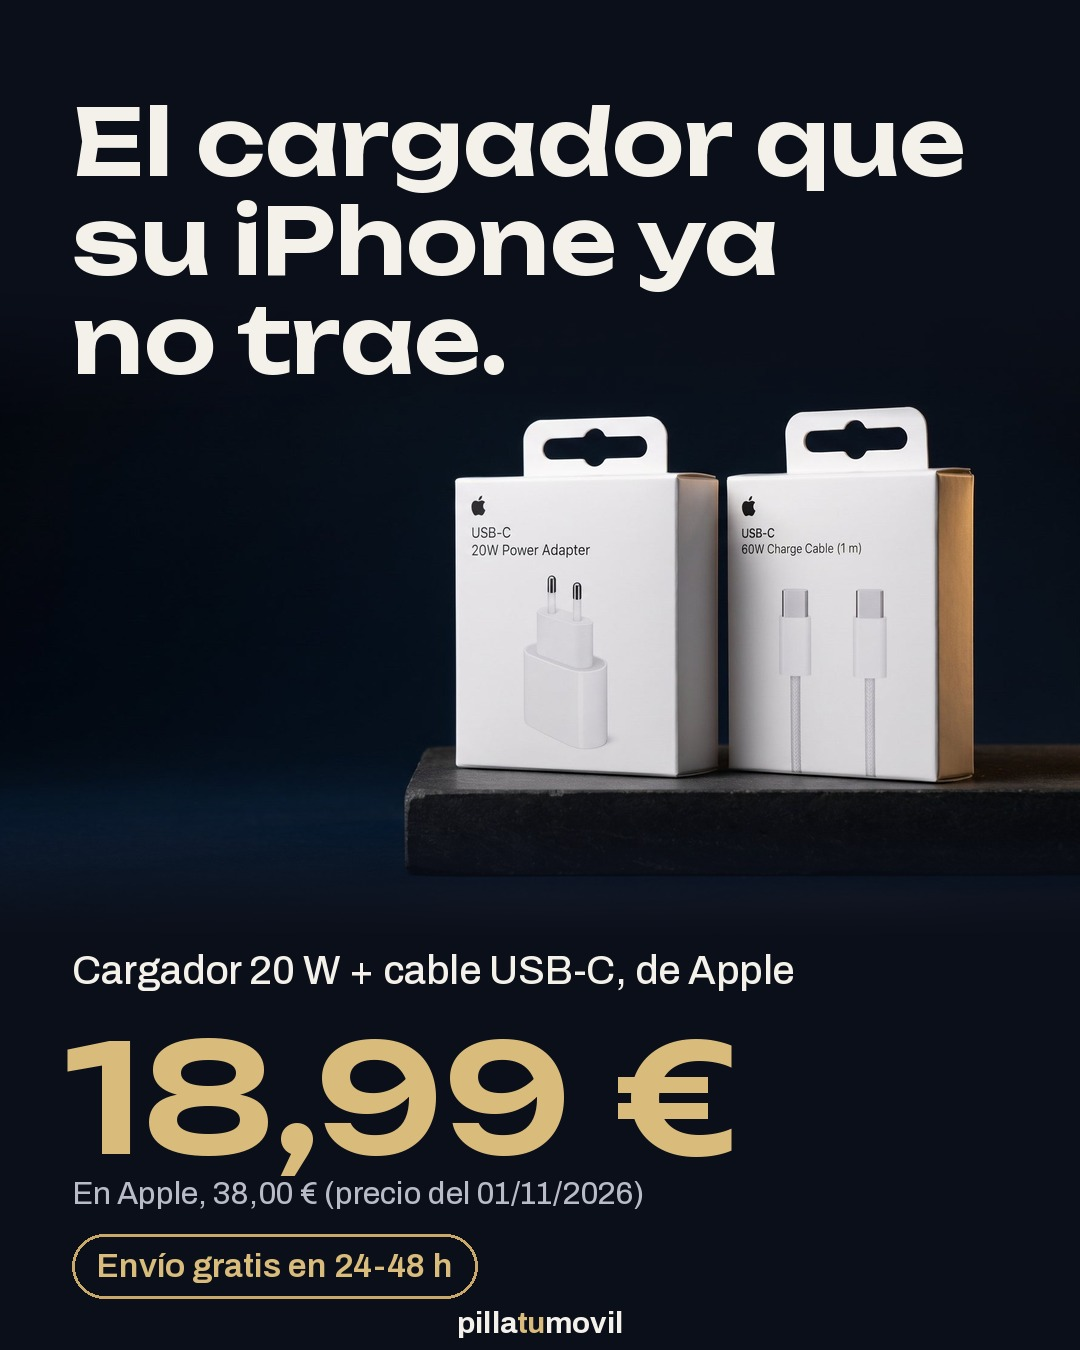
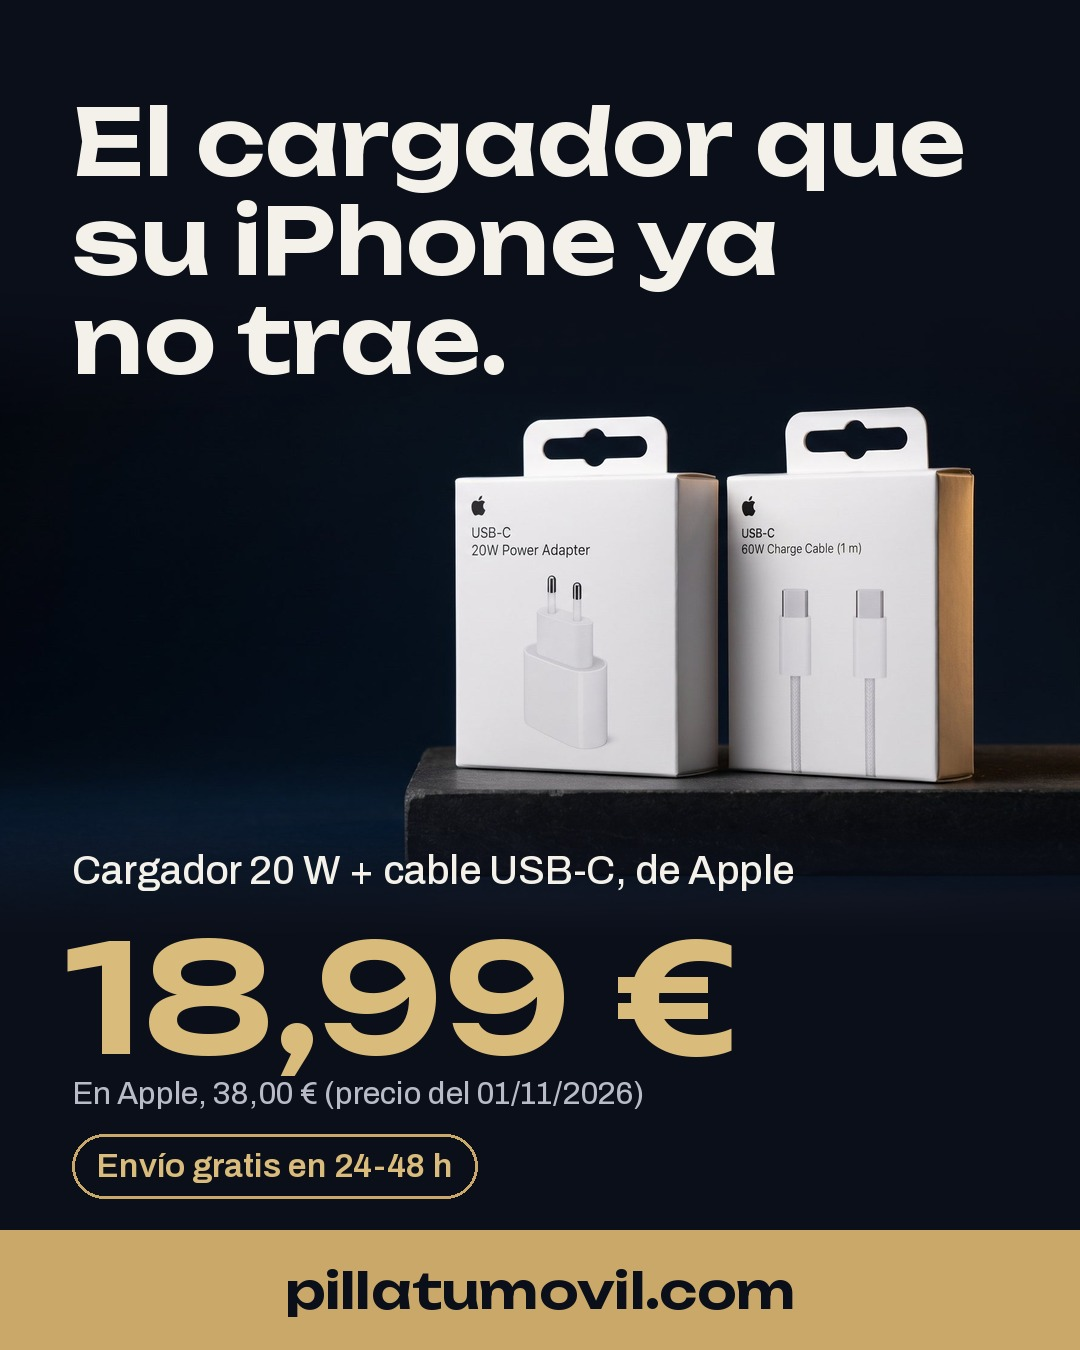
Anuncios v2: la web en grande abajo y la tienda enlaza a los packs
Claude-Session: https://claude.ai/code/session_01Nc9WKw6CJWQJZcFTdaUv41

Changed region(s): [[0.0, 0.6222, 1.0, 1.0]]

diff --git a/pillatumovil/tools/anuncio_meta.py b/pillatumovil/tools/anuncio_meta.py
@@ -50,6 +50,12 @@ def sello(d, x, y, txt, f):
     d.text((x+24, y+13), txt, font=f, fill=ORO_T)
     return y+h+30
 
+def barra(d, W, y, h):
+    d.rectangle([0, y, W, y + h], fill=ORO)
+    f = UNB(50); t = 'pillatumovil.com'
+    w = d.textlength(t, font=f)
+    d.text(((W - w) / 2, y + (h - f.size) / 2 - 6), t, font=f, fill=NOCHE)
+
 def logo(d, W, y, f):
     t1, t2, t3 = 'pilla', 'tu', 'movil'
     w = sum(d.textlength(t, font=f) for t in (t1, t2, t3)); x = (W-w)/2
@@ -66,13 +72,15 @@ def idea(nombre, W, H, safe_top, safe_bot):
     ft = UNB(92 if not story else 100)
     alto_tit = len(titulo)*int(ft.size*1.08)
     foto_y = safe_top + alto_tit + (10 if not story else 60)
-    foto_frac = 0.50 if not story else 0.46
+    foto_frac = 0.50 if not story else 0.30
     im = base(W, H, foto_frac, foto_y - int(H*foto_frac*0.18))
     d = ImageDraw.Draw(im)
     texto_lineas(d, M, safe_top, titulo, ft, MARFIL, int(ft.size*1.08))
     # bloque de precio, abajo
     fp = UNB(150 if not story else 170); fs = ARC(40, 500); fsm = ARC(31, 450); fb = ARC(34, 600)
-    y = H - safe_bot - (fp.size + 36 + 40 + 30 + 76)
+    BH = 120
+    bar_y = H - BH if not story else H - safe_bot - BH
+    y = bar_y - 50 - (fp.size + 36 + 40 + 30 + 76)
     d.text((M, y), 'Cargador 20 W + cable USB‑C, de Apple', font=fs, fill=MARFIL)
     y += 56
     d.text((M-6, y), '18,99 €', font=fp, fill=ORO_T)
@@ -80,8 +88,7 @@ def idea(nombre, W, H, safe_top, safe_bot):
     d.text((M, y), 'En Apple, 38,00 € (precio del 01/11/2026)', font=fsm, fill=MARFIL2)
     y += 58
     sello(d, M, y, 'Envío gratis en 24-48 h', fb)
-    if not story:
-        logo(d, W, H-safe_bot+26, ARC(30, 700)) if safe_bot > 60 else None
+    barra(d, W, bar_y, BH)
     return im
 
 os.makedirs(out, exist_ok=True)

diff --git a/pillatumovil/tools/anuncio_tienda.py b/pillatumovil/tools/anuncio_tienda.py
@@ -34,7 +34,7 @@ def tesela(d, x, y, w, h, modelos, cable):
 def anuncio(W, H, top, bot):
     story = H > W * 1.5
     lienzo = Image.new('RGB', (W, H), NOCHE)
-    fh = int(H * (0.56 if not story else 0.46))
+    fh = int(H * (0.52 if not story else 0.46))
     lienzo.paste(foto_fundida(W, fh), (0, 0 if not story else top - 60))
     d = ImageDraw.Draw(lienzo); M = 64
     ft = F('Unbounded.ttf', 74 if not story else 72, 600)
@@ -49,9 +49,10 @@ def anuncio(W, H, top, bot):
     d.text((M, y), 'Adaptador de 20 W + cable, originales de Apple.', font=F('Archivo.ttf', 34, 500), fill=MARFIL)
     y += 54
     d.text((M, y), 'Envío gratis en 24-48 h · 14 días para devolverlo', font=F('Archivo.ttf', 30, 500), fill=ORO_T)
-    if not story:
-        f = F('Archivo.ttf', 28, 700); t = 'pillatumovil.com'
-        d.text((W - M - d.textlength(t, font=f), H - bot - 4), t, font=f, fill=MARFIL2)
+    BH = 120; by = H - BH if not story else H - bot - BH
+    d.rectangle([0, by, W, by + BH], fill=ORO)
+    f = F('Unbounded.ttf', 50, 600); t = 'pillatumovil.com'
+    d.text(((W - d.textlength(t, font=f)) / 2, by + (BH - 50) / 2 - 6), t, font=f, fill=NOCHE)
     return lienzo
 
 os.makedirs(out, exist_ok=True)

diff --git a/pillatumovil/anuncios/2026-11/LEEME.md b/pillatumovil/anuncios/2026-11/LEEME.md
@@ -20,3 +20,12 @@ Generadas con `tools/anuncio_meta.py`.
 - Enlace: portada, directo al selector «¿Qué iPhone tiene?» (`#su-iphone`), utm_campaign=tienda-2026-11.
 - **Publicado**: anuncio 120250354025830622, creative 1113019388368373 (con la cuenta de Instagram 17841437289404273).
 - Borrador sin publicar 120250354022660622: le faltaba la cuenta de Instagram. Se puede descartar.
+
+## v2 (02/11/2026): la web en grande abajo y enlace a los packs
+
+Petición del dueño: «poner el link abajo de la web directo, en grande» y «que la lleve directamente al producto de los packs».
+
+- Las tres imágenes llevan abajo una franja dorada con «pillatumovil.com» en grande (Unbounded, noche sobre oro).
+- Tienda: el enlace va a `/collections/packs` (los dos packs). A y B van a la ficha del pack USB-C.
+- Publicados: tienda 120250354076460622 (creative 1752210195854821), A 120250354076720622 (2343264039792813), B 120250354077040622 (1681377504028642). Todos con la cuenta de Instagram.
+- Pausados los anteriores (sin la franja): 120250354025830622, 120250353950680622, 120250353951690622.
